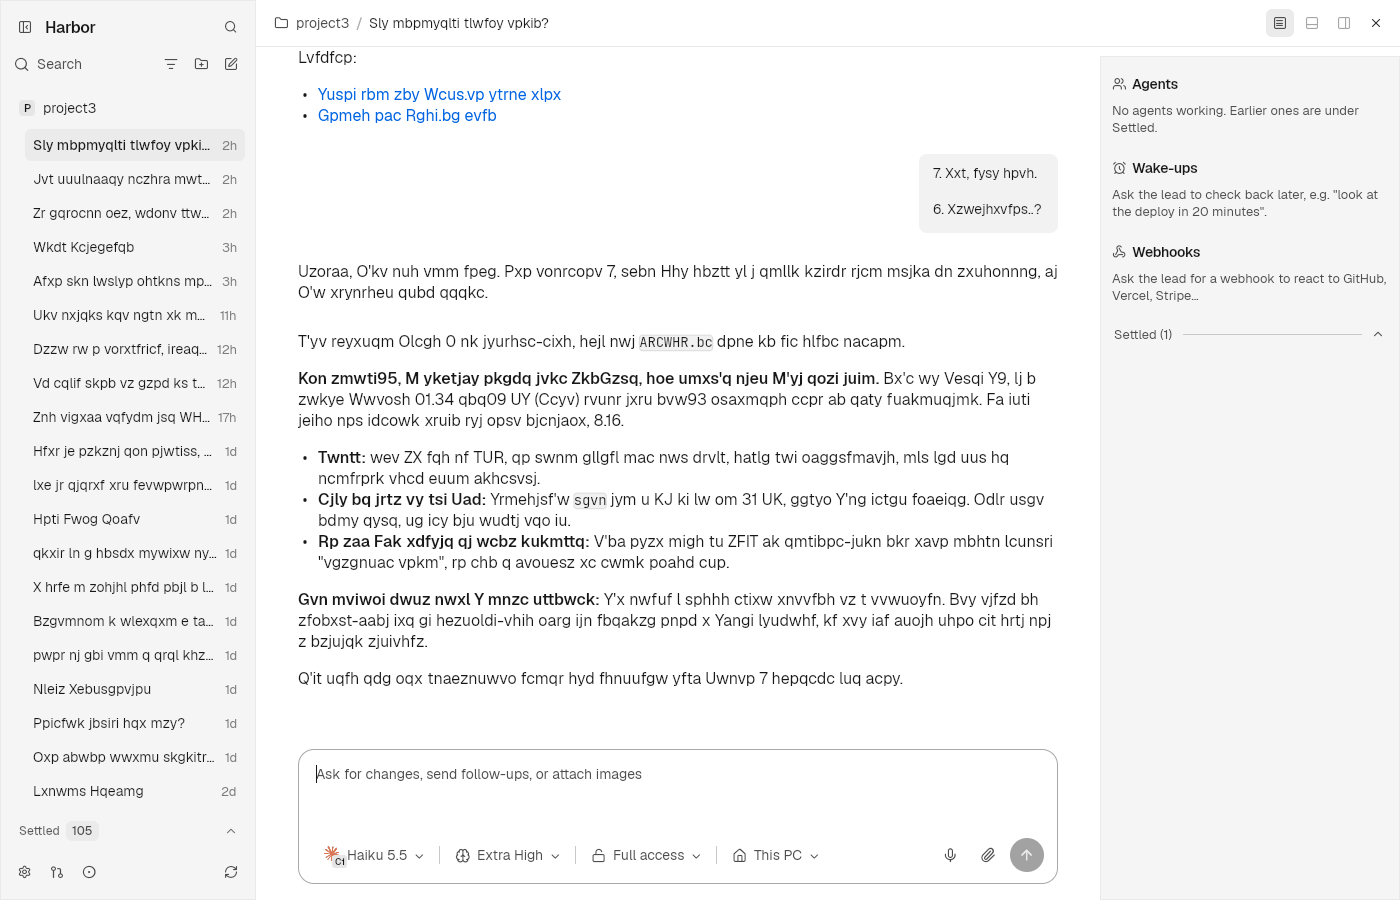
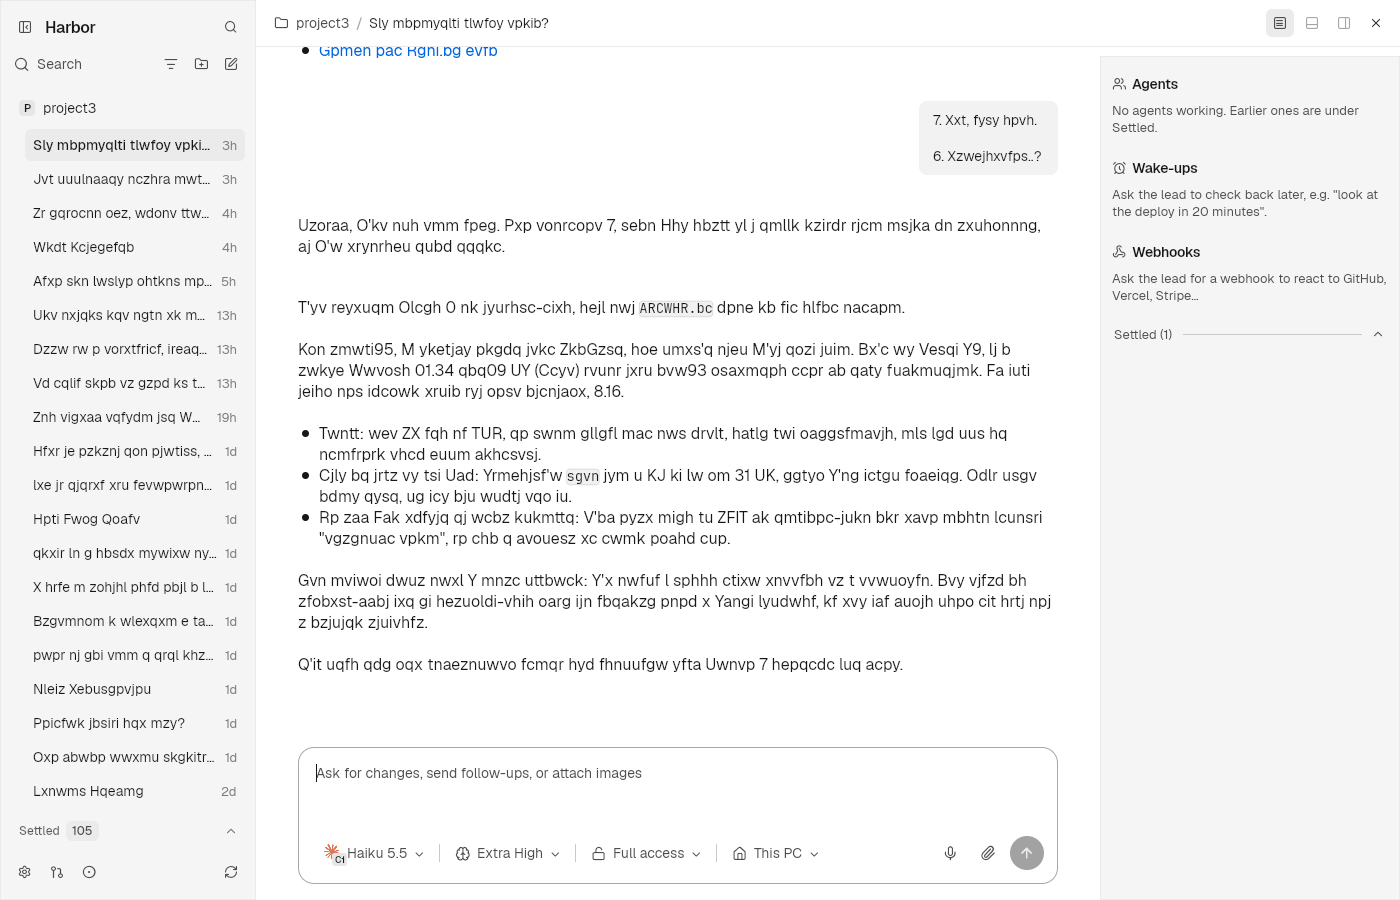
ui: markdown bold drawn regular and lines wrapped as egui wraps them
The Rust app draws **bold** in the strong colour without a bold face
(egui_commonmark); the TypeScript window drew it bold, which also moved
line breaks. It now matches, and PROGRESS.md says how to bring bold back
if the owner prefers it. A line that would end exactly at the column's
edge wraps, as egui wraps it.

shots/chat-*, chat-light-*, draft-*: retaken; the transcript's rows are at
the same y as Rust's in both themes.

diff --git a/ts/packages/ui/test/markdown.test.ts b/ts/packages/ui/test/markdown.test.ts
@@ -38,16 +38,16 @@ test("quotes nest and hold other blocks", () => {
 });
 
 test("a table is one block, its header the first row", () => {
-  expect(blocks("| a | b |\n|---|:-:|\n| 1 | **2** |")).toEqual([{ kind: "table", rows: [["a", "b"], ["1", "**2**"]], quote: 0 }]);
+  expect(blocks("| a | b |\n|---|:-:|\n| 1 | **2** |")).toEqual([{ kind: "table", rows: [["a", "b"], ["1", "2"]], quote: 0 }]);
 });
 
 test("spans go back to inline markdown StyledText accepts and reads as the same text", () => {
   const [p] = blocks("**b** _i_ `c` ~~s~~ [l](http://x) <b>h</b> ![im](a.png) a*b `x``y`");
   expect(p?.kind).toBe("p");
   const text = p?.kind === "p" ? p.text : "";
-  expect(text).toBe("**b** *i* `c` ~~s~~ [l](<http://x>) \\<b\\>h\\</b\\> [im](<a.png>) a\\*b ```x``y```");
+  expect(text).toBe("b *i* `c` ~~s~~ [l](<http://x>) \\<b\\>h\\</b\\> [im](<a.png>) a\\*b ```x``y```");
   expect(() => slint.StyledText.fromMarkdown(text)).not.toThrow();
-  expect(inline([{ text: " bold ", bold: true }])).toBe(" **bold** ");
+  expect(inline([{ text: " bold ", bold: true }])).toBe(" bold ");
 });
 
 test("escaped text is read back as itself", () => {

diff --git a/ts/packages/ui/src/markdown.ts b/ts/packages/ui/src/markdown.ts
@@ -24,7 +24,8 @@ function code(s: string): string {
   return `${fence}${pad}${s}${pad}${fence}`;
 }
 
-/** One span as inline markdown; markers hug the text, so spaces at its ends stay outside them. */
+/** One span as inline markdown; markers hug the text, so spaces at its ends stay outside them. Bold stays
+ *  regular, as egui_commonmark draws it (the strong colour, which is the text's). */
 function span(s: Span): string {
   const m = /^(\s*)([\s\S]*?)(\s*)$/.exec(s.text);
   const [lead, body, tail] = [m?.[1] ?? "", m?.[2] ?? s.text, m?.[3] ?? ""];
@@ -32,7 +33,6 @@ function span(s: Span): string {
   let t = s.code ? code(body) : escape(body).replace(/\n/g, "\\\n");
   if (s.strike) t = `~~${t}~~`;
   if (s.italic) t = `*${t}*`;
-  if (s.bold) t = `**${t}**`;
   if (s.link !== undefined) t = `[${t}](<${s.link.replace(/[<>]/g, "")}>)`;
   return `${lead}${t}${tail}`;
 }

diff --git a/ts/packages/ui/PROGRESS.md b/ts/packages/ui/PROGRESS.md
@@ -28,8 +28,8 @@ The shell: design layer, sidebar, chat transcript with markdown, composer, app w
   or two. Replies were re-checked block by block against fixed documents (`shots/markdown-*`): the
   gaps between blocks follow egui_commonmark's newline rules (`markdown.ts` `place`), headings,
   bullets, numbers, quotes, code frames and tables are drawn as egui draws them. Known differences:
-  markdown bold is drawn bold (see Decisions); transcript text can't be selected; line height inside
-  a paragraph is 20.7px against egui's 21, so long paragraphs drift a pixel per three lines.
+  transcript text can't be selected; line height inside a paragraph is 20.7px against egui's 21, so
+  long paragraphs drift a pixel per three lines.
 - `.slint` files, fonts and the Lucide icons load from source and from `bun build --compile` the same
   way: `src/assets.ts` imports each one as a file and writes them once into a folder named by their
   hash (`$XDG_RUNTIME_DIR/harbor-ui-<hash>`), which Slint loads. Checked by compiling the window's
@@ -83,8 +83,9 @@ compile, cards, cursors, scripted input).
   that crash the window at runtime.
 - `HARBOR_POINTER` (as in the Rust app) drives the window by Slint's `dispatchEvent` for the rig:
   synthetic Wayland clicks don't reach Slint's buttons and `wtype` drops keys.
-- Markdown bold is drawn bold. The Rust app's egui loads no bold face, so its bold reads as regular
-  text; that one difference from today's look is on purpose.
+- Markdown bold is drawn regular, as the Rust app draws it (egui_commonmark gives it the strong
+  colour, not a bold face), so the screens match. One line in `markdown.ts` `span` brings bold back
+  if the owner wants it.
 - The window shows what isn't ported as disabled buttons or a dialog naming it; nothing pretends to work.
 
 ## How a new page plugs in
